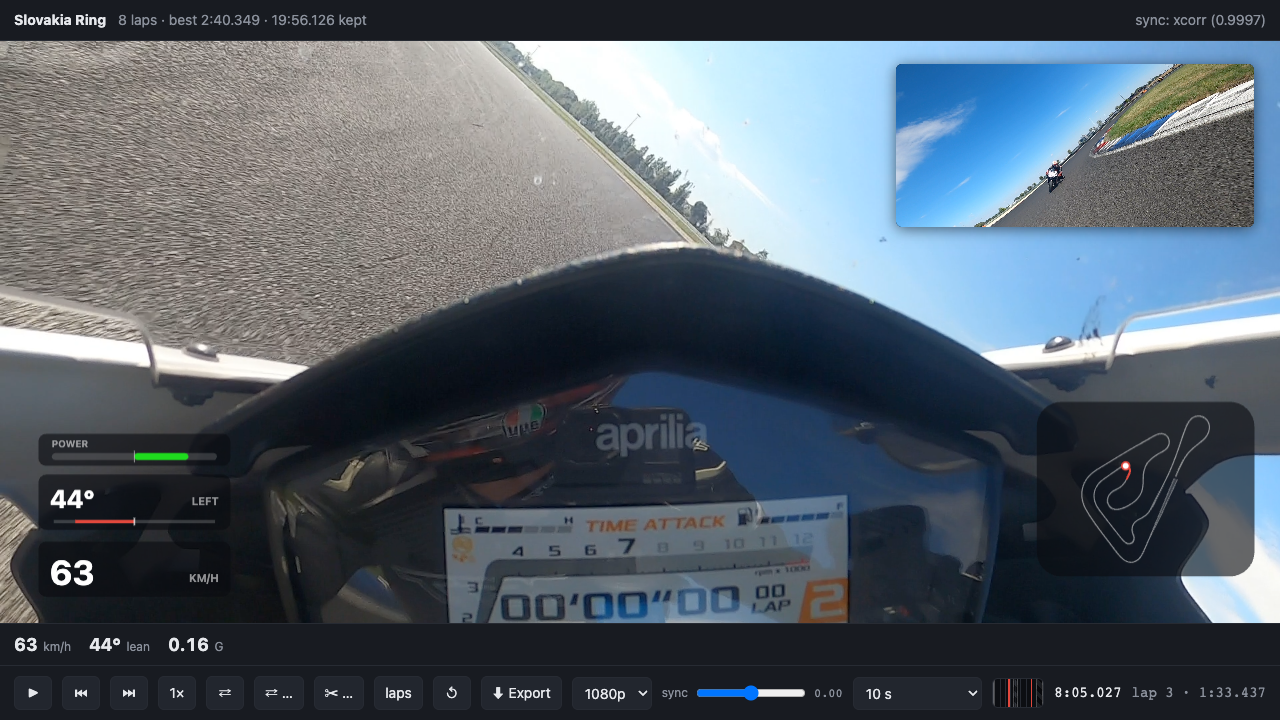
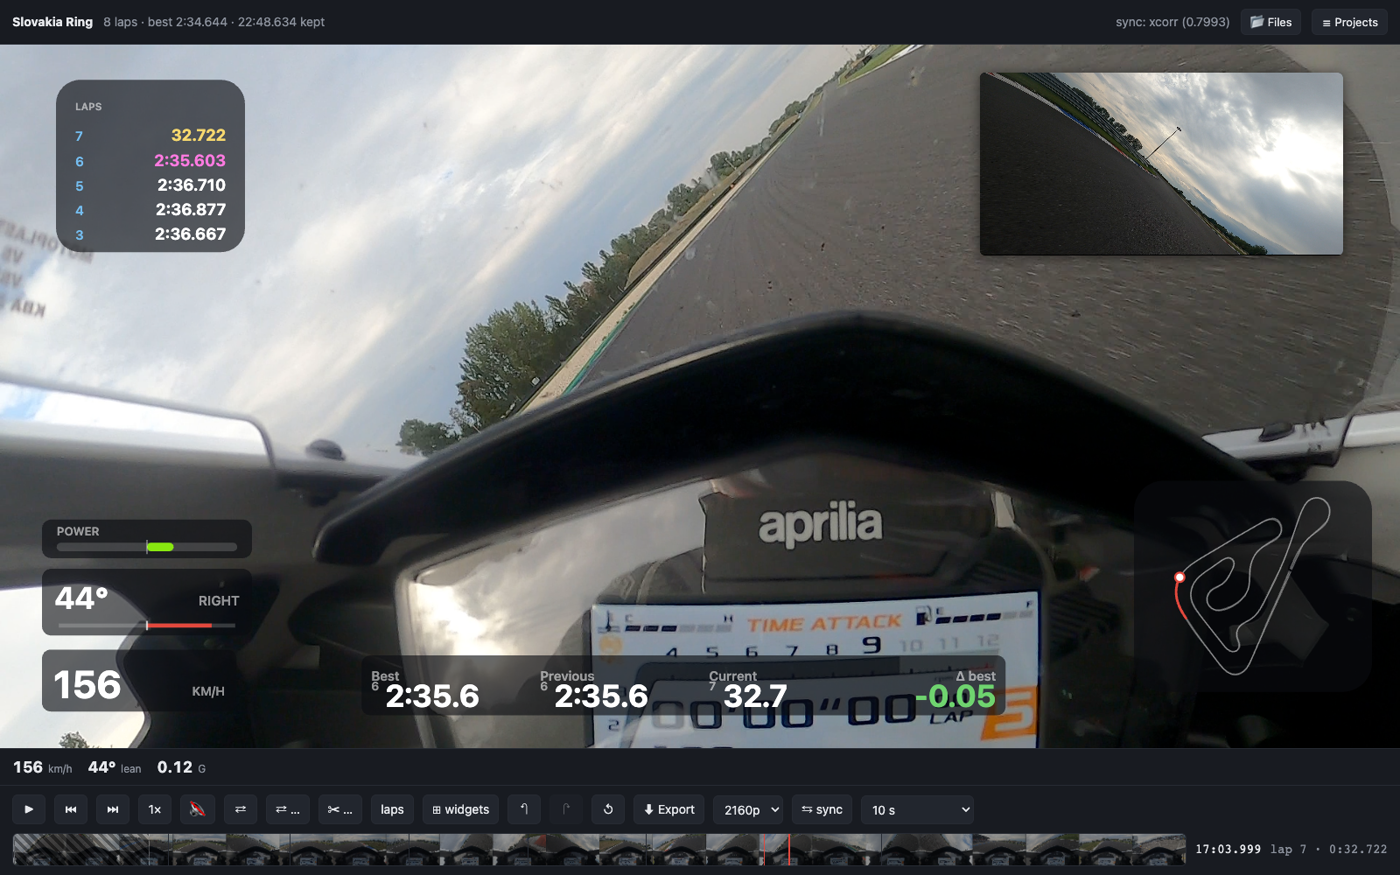
docs: bring the README up to the tool as it stands, with a new screenshot
The picture predated the lap board, the lap list, the widget menu, the filmstrip along the
timeline and the sync step, and the text still described a speed trace that is no longer
drawn. The new shot is mid-corner at 44 degrees on the best lap, with both cameras, so
what is described can be seen.

Also written down: what happens when footage a session names has gone, that only the kept
stretch is composed rather than composed and cut, that a background tab now catches up as
soon as it is looked at, and the container image badge.

CLAUDE.md gains the invariants the last few days produced - the third clock in
build_plan, a single kept stretch being seeked to rather than trimmed to, and nothing
downstream running against footage that is missing.

diff --git a/README.md b/README.md
@@ -1,6 +1,7 @@
 # track-overlay
 
 [![tests](https://github.com/Serdy/track-overlay/actions/workflows/ci.yml/badge.svg)](https://github.com/Serdy/track-overlay/actions/workflows/ci.yml)
+[![image](https://github.com/Serdy/track-overlay/actions/workflows/image.yml/badge.svg)](https://github.com/Serdy/track-overlay/pkgs/container/track-overlay)
 
 Burns telemetry from a **RaceBox** logger into onboard **GoPro** footage and composes a
 finished MP4. Several cameras at once, picture-in-picture, swappable mid-session. Runs
@@ -29,7 +30,9 @@ you set up once and reuse for every session of the day.
   read the way they would have on the bike rather than knowing the session in advance
 - Composes any number of cameras with picture-in-picture, lets you swap them over a
   stretch, and cut the ride out and back off the ends
-- Renders the lot into a single MP4 with hardware encoding
+- Keeps a project per track day, so a session is assembled once and reopened later
+- Renders the lot into a single MP4, hardware-encoded where the machine has an encoder —
+  the whole session, a short preview, or the best lap on its own
 
 ## How it works
 
@@ -110,6 +113,10 @@ camera card is on and pushing twenty-four gigabytes through a browser to reach i
 be pure waste. Files dropped into the folder by hand are picked up as well, so a project
 can also be assembled in Finder.
 
+If footage a built session names has since been moved or deleted, the panel says which
+camera it belonged to and offers to drop it; nothing downstream will run until it is gone
+or back, and the export says so before it encodes anything.
+
 Under Docker there is no dialog to open and the container's disk is not the disk the
 footage is on, so the button becomes **Upload files…** — files can also be dropped onto
 the panel. That copies them into the project folder, which is slow for a four gigabyte
@@ -140,9 +147,10 @@ names the file it is on.
 
 The editor then opens on the sync check, because everything downstream rests on that one
 number and the machine's answer is only as good as the overlap it had to work with. It
-shows the method and correlation, jumps to the hardest braking point, and draws the speed
-trace under the picture: at a braking marker the two agree or they visibly do not. The
-slider shifts one camera; **Looks right** confirms it.
+shows the method and correlation and jumps to the hardest braking point, where the
+readouts under the picture are at their most telling: at a braking marker the telemetry
+and the frame agree or they visibly do not. The slider shifts one camera, **Next braking**
+moves to another one to check against, and **Looks right** confirms it.
 
 A confirmed correction is kept in `project.json` and folded into `session.json`, which is
 what the renderer reads — so unlike the old preview-only slider, it reaches the finished
@@ -178,16 +186,21 @@ Everything is saved to the project's `layout.json` as you go, and reloaded next 
 timeline carries thumbnails from the opening camera, so a place worth cutting or swapping
 at can be found by eye.
 
+Press **Export** to compose. Start with the 10-second option to check the layout before
+committing to a full session, or pick **best lap** — that renders the quickest lap with
+four seconds of approach and the same again of run-off, which is the clip worth sending
+to anyone. Only what is kept is composed: a lap from twenty minutes in starts there rather
+than being composed from the beginning and cut afterwards.
+
+The tab can be left in the background. The overlay is driven by encoder events rather than
+timers, which browsers clamp to about one call a second once a tab stops being visible,
+and the progress of the ffmpeg half wakes the moment the page is looked at again.
+
 When it finishes, **Download** saves the file through the browser and **Show in Finder**
 reveals it where it already is — which is usually what you want, since a finished render
 runs to hundreds of megabytes and downloading writes a second copy onto the same disk.
 
-Press **Export** to compose. Start with the 10-second option to check the layout before
-committing to a full session, or pick **best lap** — that renders the quickest lap with
-four seconds of approach and the same again of run-off, which is the clip worth sending
-to anyone. The tab can be left in the background while it runs - the
-render loop is driven by encoder events rather than timers, which browsers clamp to about
-one call a second once a tab stops being visible. The same thing from a terminal:
+The same thing from a terminal:
 
 ```bash
 P=data/slovakia-ring-2026-09-12
@@ -318,6 +331,7 @@ src/trackoverlay/
   render.py           the ffmpeg filter graph
   server.py           project routes, range requests, and launching renders
 web/
+  projects.html       the project list; index.html is the editor
   js/clock.js         the single source of the current time
   js/session.js       the session model and channel sampling
   js/cuts.js          which camera is in which slot, and when that changes

diff --git a/CLAUDE.md b/CLAUDE.md
@@ -7,6 +7,7 @@ This file provides guidance to Claude Code (claude.ai/code) when working with co
 ```bash
 uv sync                                   # set up
 uv run trackoverlay                       # the whole tool: project list in a browser
+uv run trackoverlay serve --host 0.0.0.0  # as the container image runs it
 
 uv run pytest                             # Python tests
 uv run pytest tests/test_sync.py -k xcorr # one file, one test
@@ -54,7 +55,11 @@ decision is kept in `project.json` as well, because a rebuild rewrites the sessi
 
 **Time inside a session is seconds from `session.start_utc`.** Output time is not session
 time once anything is cut: `Ranges.toSession` / `toOutput` convert, and the overlay is
-drawn in output time while telemetry is addressed in session time.
+drawn in output time while telemetry is addressed in session time. In `render.build_plan`
+a third clock appears — graph time, which starts at the first kept moment. Mixing any two
+of them is the shape every sync bug here has taken: a window clamped by an output length
+rendered the opening minutes, and composing from zero before trimming did seven times the
+work with a progress bar that never moved.
 
 **`cuts` is a sparse list of arrangements, not of changes.** Each entry says what the
 slots hold from that moment. It maps one-to-one onto ffmpeg's `enable='between(t,a,b)'`.
@@ -86,6 +91,13 @@ survives — silently cancelling the sync correction. `setpts` goes only on seek
 
 **The overlay is composited after range trimming**, or the range offset is applied twice.
 
+**A single kept stretch is seeked to, never trimmed to.** The graph starts there, so there
+is no trim or concat stage and the audio comes straight off the seeked input.
+
+**Nothing downstream runs against footage that is gone.** The project panel, the export
+and the render each refuse early and name the camera; only the render used to find out,
+at the far end of an ffmpeg command line.
+
 ## Conventions
 
 - Pure JS modules (`clock`, `cuts`, `ranges`, `layout`, `display`, `laptimes`, `history`,
@@ -96,7 +108,9 @@ survives — silently cancelling the sync correction. `setpts` goes only on seek
 - Adding a `web/js/*.js` file means adding a `<script>` to `web/index.html`; load order
   matters, and `state.js` is last.
 - Widgets register themselves into `Widgets`; the widget menu is built from that registry.
-  Nothing adds a widget back into a layout that lacks it — unticking has to stick.
+  Nothing adds a widget back into a layout that lacks it — unticking has to stick. A
+  camera the session gains later is different: `Cuts.adopt` gives it the free inset, or it
+  would be synced and invisible.
 - The server stamps `?v=<mtime>` onto assets and serves them `no-store`. Stamped URLs are
   rooted: from `/p/<name>/` a relative one resolves inside the project and 404s in silence.
 - CSS: `[hidden] { display: none !important }` is load-bearing. A `display:` rule outranks
